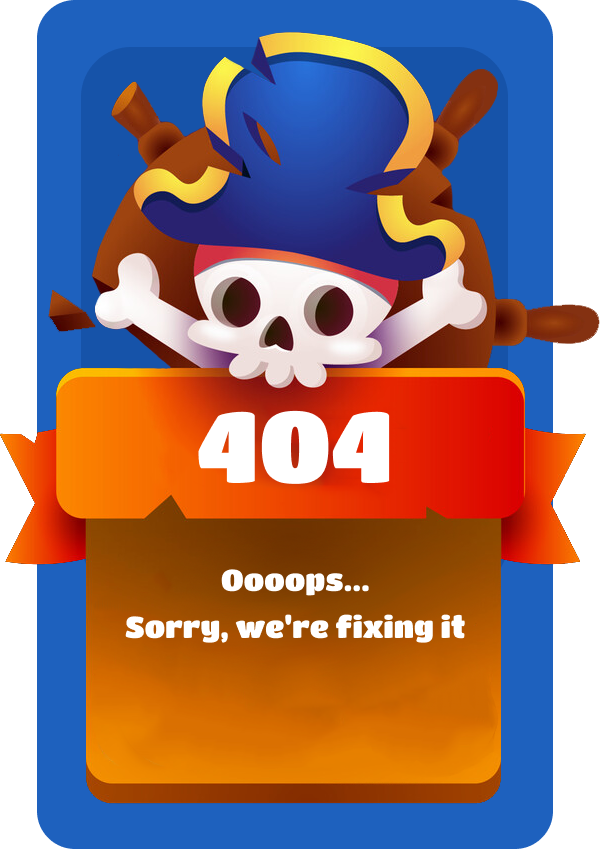
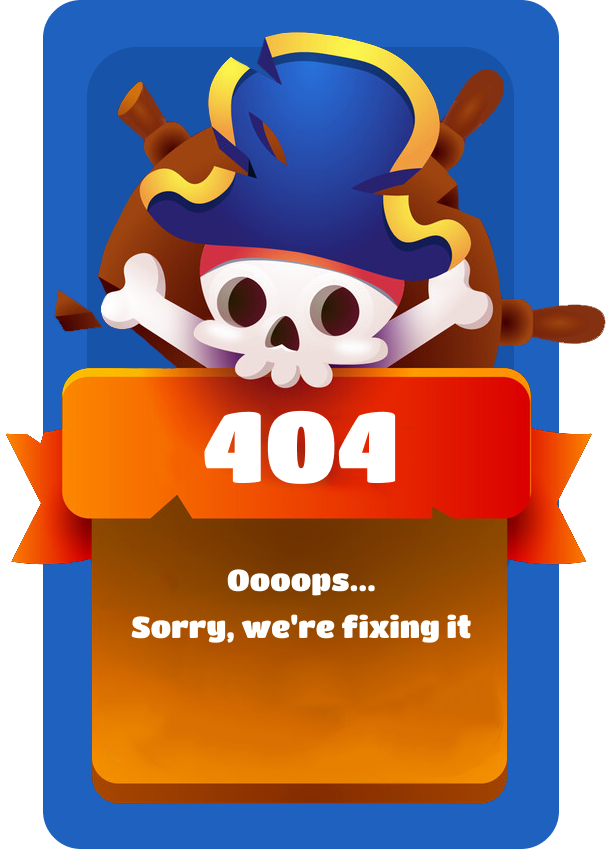
update styles and resize img

diff --git a/src/pages/NotFoundPage/NotFoundPage.scss b/src/pages/NotFoundPage/NotFoundPage.scss
@@ -1,11 +1,18 @@
+@import 'src/styles/colors.css';
+
 .bg {
     height: 100vh;
     width: 100vw;
-    background: rgba(0, 0, 0, 0.68);
+    background: var(--bg-dark-gray);
     .defeat_bg {
+        width: 600px;
+        height: 849px;
+        display: flex;
+        margin: 40px auto;
+        align-items: center;
+        flex-direction: column-reverse;
         .btn {
-            margin-top: 685px;
-            margin-right: 24px;
+            margin-bottom: 100px;
             padding: 0;
             width: 380px;
             height: 57px;
@@ -16,7 +23,7 @@
             border-left: none;
             border-right: none;
             &_yellow {
-                border-color: #FDDE4F;
+                border-color: var(--light-yellow);
                 background: radial-gradient(100% 100% at 50.31% 100%, #FDDE4F 0%, #FDBB28 50%, #FDBB28 100%);
             }
         }

diff --git a/src/pages/NotFoundPage/NotFoundPage.tsx b/src/pages/NotFoundPage/NotFoundPage.tsx
@@ -12,11 +12,6 @@ export const NotFoundPage = (): JSX.Element => {
             <div className={styles.bg}>
                 <div className={styles.defeat_bg} style={{
                     backgroundImage: `url(${background})`,
-                    width: '600px',
-                    height: '849px',
-                    display: 'flex',
-                    margin: '40px auto',
-                    justifyContent: 'center',
                 }}>
                         <NavLink to="/">
                             <Button className={`${styles.btn} ${styles.btn_yellow}`} title="back" />

diff --git a/src/styles/colors.css b/src/styles/colors.css
@@ -1,4 +1,6 @@
 :root {
   --blue: #1e61be;
   --white: #fff;
+  --bg-dark-gray: rgba(0, 0, 0, 0.68);
+  --light-yellow: #FDDE4F;
 }
